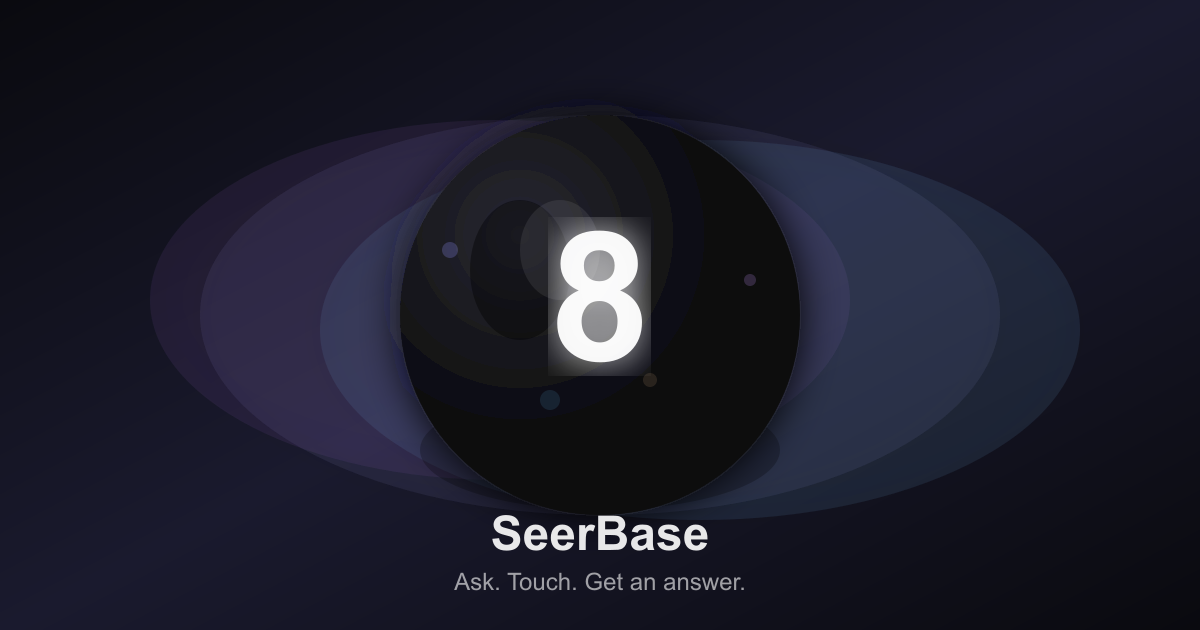
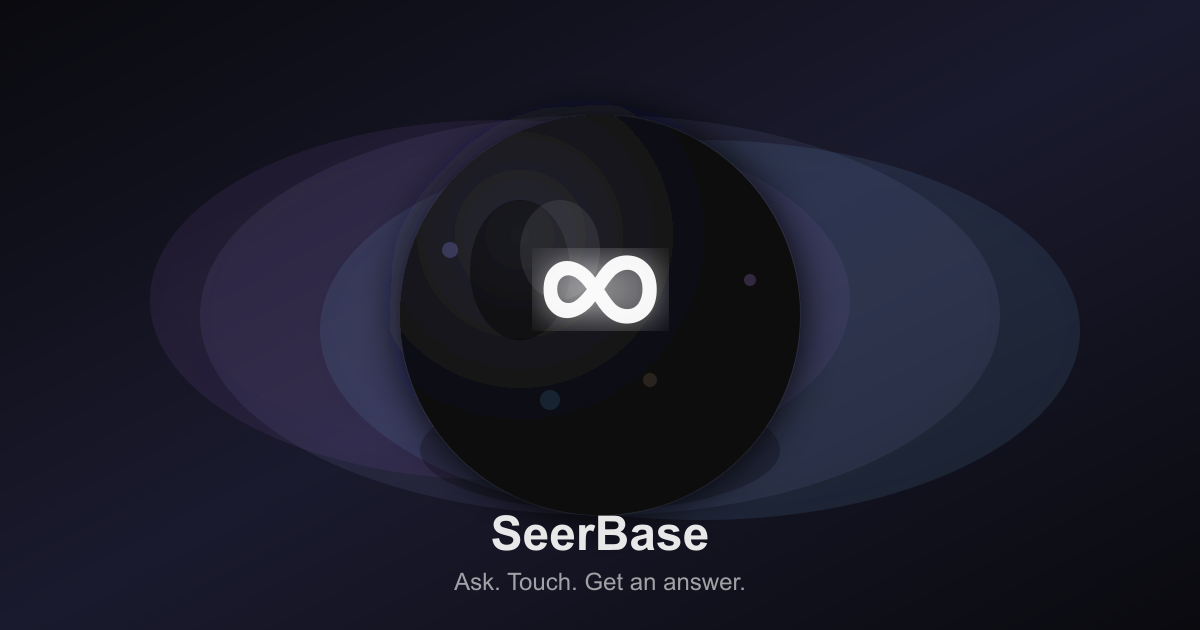
feat: replace vertical 8 with horizontal infinity symbol (∞)
- Create icon-magic-ball-infinity.svg with horizontal infinity symbol
- Generate icon-magic-ball-infinity.png (512x512) for app icon
- Generate hero-magic-ball-infinity.png (1200x630) for splash/hero
- Update magic-ball-embed.svg to use infinity symbol instead of vertical 8
- Regenerate magic-ball-embed.png with infinity symbol
- Update iconUrl, splashImageUrl, and heroImageUrl to use new infinity images
- Add generate-hero npm script
- All app images now use horizontal infinity symbol (∞) instead of vertical 8

Changed region(s): [[0.4317, 0.3317, 0.555, 0.6032]]

diff --git a/minikit.config.ts b/minikit.config.ts
@@ -19,14 +19,14 @@ export const minikitConfig = {
     subtitle: "Your instant answer Yes or No.",
     description: "Just ask a question and tap the screen.",
     screenshotUrls: [`${ROOT_URL}/screenshot-apple-magic-ball-portrait.png`],
-    iconUrl: `${ROOT_URL}/icon-magic-ball-8.png`,
-    splashImageUrl: `${ROOT_URL}/hero-apple-magic-ball.png`,
+    iconUrl: `${ROOT_URL}/icon-magic-ball-infinity.png`,
+    splashImageUrl: `${ROOT_URL}/hero-magic-ball-infinity.png`,
     splashBackgroundColor: "#1a1a1f",
     homeUrl: ROOT_URL,
     webhookUrl: `${ROOT_URL}/api/webhook`,
     primaryCategory: "utility",
     tags: ["oracle", "predictor", "yesno", "minimal", "tool"],
-    heroImageUrl: `${ROOT_URL}/hero-apple-magic-ball.png`,
+    heroImageUrl: `${ROOT_URL}/hero-magic-ball-infinity.png`,
     tagline: "Ask. Touch. Get an answer.",
     ogTitle: "SeerBase",
     ogDescription: "Get an instant Yes or No answer to any of your questions. Just tap on the magic ball!",

diff --git a/scripts/generate-hero.js b/scripts/generate-hero.js
@@ -1,0 +1,32 @@
+const sharp = require('sharp');
+const fs = require('fs');
+const path = require('path');
+
+async function generateHero() {
+  const svgPath = path.join(__dirname, '../public/icon-magic-ball-infinity.svg');
+  const heroPath = path.join(__dirname, '../public/hero-magic-ball-infinity.png');
+  
+  try {
+    // Read SVG file
+    const svgBuffer = fs.readFileSync(svgPath);
+    
+    // Convert SVG to PNG hero image (1200x630 for hero/splash)
+    await sharp(svgBuffer)
+      .resize(1200, 630, {
+        fit: 'contain',
+        background: { r: 10, g: 10, b: 15, alpha: 1 }
+      })
+      .png()
+      .toFile(heroPath);
+    
+    console.log('✅ Successfully generated hero image!');
+    console.log(`📁 Output: ${heroPath}`);
+    console.log(`📐 Size: 1200x630px`);
+  } catch (error) {
+    console.error('❌ Error generating hero image:', error);
+    process.exit(1);
+  }
+}
+
+generateHero();
+

diff --git a/scripts/generate-icon.js b/scripts/generate-icon.js
@@ -3,8 +3,8 @@ const fs = require('fs');
 const path = require('path');
 
 async function generateIcon() {
-  const svgPath = path.join(__dirname, '../public/icon-magic-ball-8.svg');
-  const iconPath = path.join(__dirname, '../public/icon-magic-ball-8.png');
+  const svgPath = path.join(__dirname, '../public/icon-magic-ball-infinity.svg');
+  const iconPath = path.join(__dirname, '../public/icon-magic-ball-infinity.png');
   
   try {
     // Read SVG file
